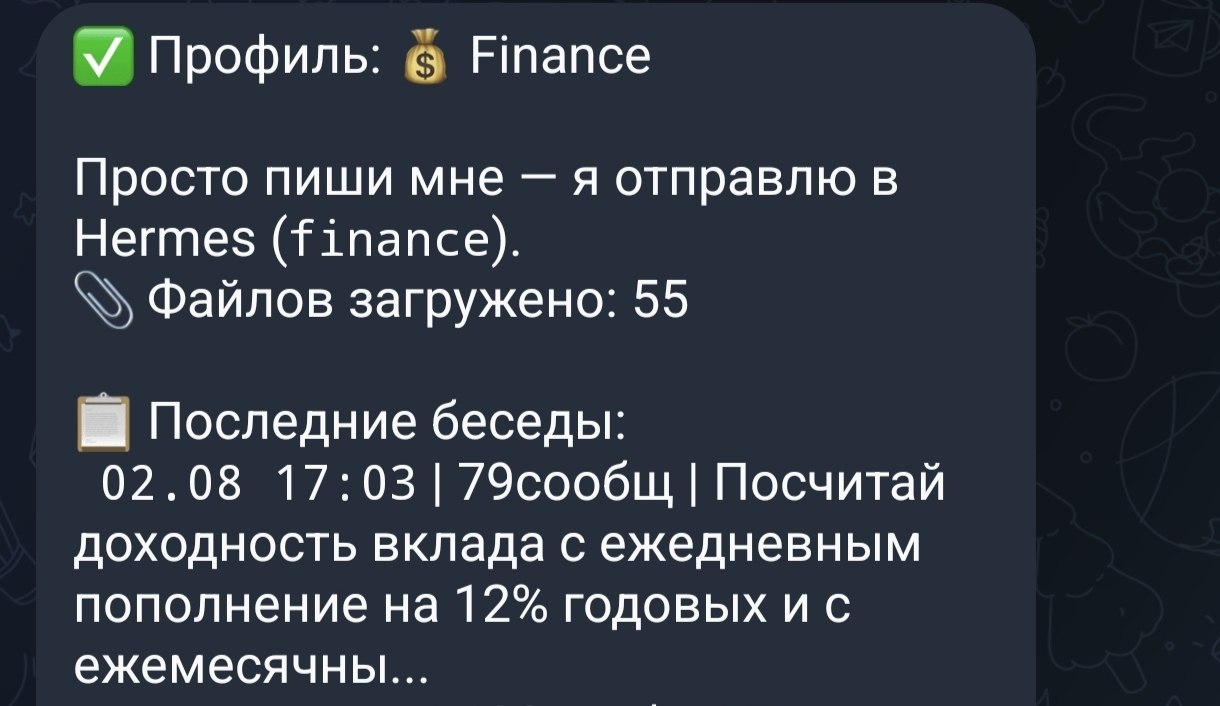
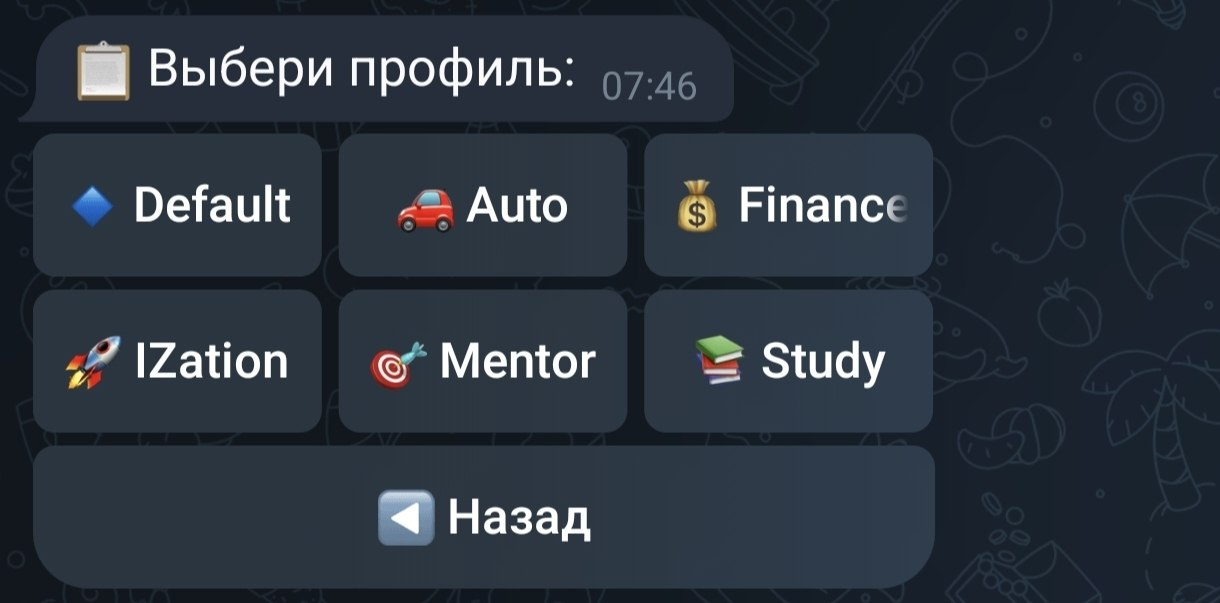
Hermes: убраны кадры с машинами, заменены на задачи ассистента

diff --git a/index.html b/index.html
@@ -132,8 +132,8 @@
     <div class="case"><b>Кейс: живучесть 24/7.</b> Health-мониторинг, автоперезапуск и безопасный /restart из чата — ассистент восстанавливается сам, без доступа к серверу.</div>
     <figure class="shot-solo"><img src="assets/hermes-agent-chat-1.jpg" alt="Hermes Agent: диалог с ассистентом в Telegram" loading="lazy"><figcaption>Диалог с ассистентом в Telegram</figcaption></figure>
     <div class="shots">
-      <figure><img src="assets/hermes-agent-chat-2.jpg" alt="Hermes Agent: ассистент выполняет задачу" loading="lazy"><figcaption>Ассистент выполняет задачу</figcaption></figure>
-      <figure><img src="assets/hermes-agent-chat-3.jpg" alt="Hermes Agent: работа с сервером из чата" loading="lazy"><figcaption>Работа с сервером из чата</figcaption></figure>
+      <figure><img src="assets/hermes-agent-chat-2.jpg" alt="Hermes Agent: автономная задача по расписанию" loading="lazy"><figcaption>Автономная задача по расписанию</figcaption></figure>
+      <figure><img src="assets/hermes-agent-chat-3.jpg" alt="Hermes Agent: ассистент выполняет задачу" loading="lazy"><figcaption>Ассистент выполняет задачу</figcaption></figure>
       <figure><img src="assets/hermes-agent-chat-4.jpg" alt="Hermes Agent: отчёт ассистента" loading="lazy"><figcaption>Отчёт ассистента</figcaption></figure>
       <figure><img src="assets/hermes-agent-chat-5.jpg" alt="Hermes Agent: доставка файлов документами" loading="lazy"><figcaption>Доставка файлов документами</figcaption></figure>
     </div>
